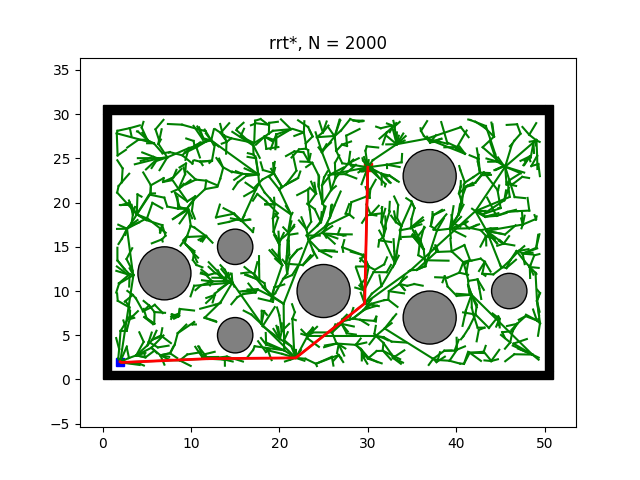
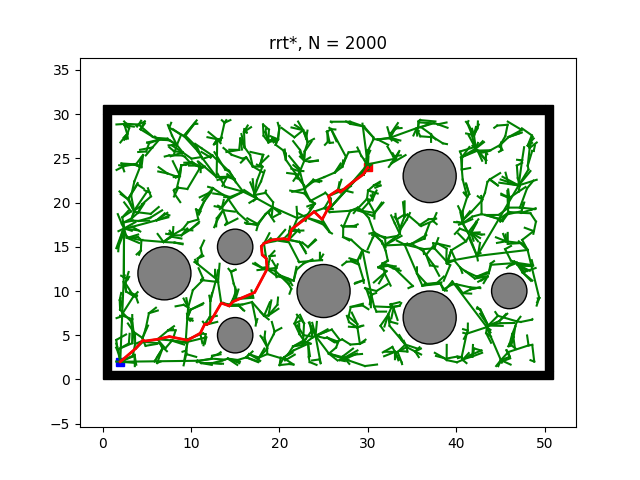
issues of QP-solver for nonlinear velocity model fixed

Changed region(s): [[0.1562, 0.25, 0.8438, 0.7812]]

diff --git a/nonlinear_dynamic_model/LQR_CBF_rrtStart_nonlinear.py b/nonlinear_dynamic_model/LQR_CBF_rrtStart_nonlinear.py
@@ -28,7 +28,7 @@ class Node:
 
 class LQRrrtStar:
     def __init__(self, x_start, x_goal, step_len,
-                 goal_sample_rate, search_radius, iter_max,AdSamplingFlag = False):
+                 goal_sample_rate, search_radius, iter_max,AdSamplingFlag = False, solve_QP = False):
         self.s_start = Node(x_start)
         self.s_goal = Node(x_goal)
         self.step_len = step_len
@@ -51,6 +51,7 @@ class LQRrrtStar:
 
         self.lqr_planner = LQRPlanner()
         self.LQR_Gain = dict()
+        self.solve_QP = solve_QP
 
         # The adaptive sampling attributes: 
         self.Vg_leaves = []
@@ -148,7 +149,7 @@ class LQRrrtStar:
         node_goal.y = node_start.y + dist * math.sin(theta)
 
 
-        wx, wy, _, _, = self.lqr_planner.lqr_planning(node_start.x, node_start.y, node_goal.x, node_goal.y, self.LQR_Gain, show_animation=show_animation)
+        wx, wy, _, _, = self.lqr_planner.lqr_planning(node_start.x, node_start.y, node_goal.x, node_goal.y, self.LQR_Gain, show_animation=show_animation, solve_QP=self.solve_QP)
         px, py, traj_cost = self.sample_path(wx, wy)
 
 
@@ -163,7 +164,7 @@ class LQRrrtStar:
         return node_new
 
     def cal_LQR_new_cost(self, node_start, node_goal,cbf_check = True):
-        wx, wy, _, can_reach = self.lqr_planner.lqr_planning(node_start.x, node_start.y, node_goal.x, node_goal.y, self.LQR_Gain, show_animation=False, cbf_check = cbf_check)
+        wx, wy, _, can_reach = self.lqr_planner.lqr_planning(node_start.x, node_start.y, node_goal.x, node_goal.y, self.LQR_Gain, show_animation=False, cbf_check = cbf_check, solve_QP=self.solve_QP)
         px, py, traj_cost = self.sample_path(wx, wy)
         if wx is None:
             return float('inf'), False
@@ -176,7 +177,7 @@ class LQRrrtStar:
         for i in neighbor_index:
 
             # check if neighbor_node can reach node_new
-            _, _, _, can_reach = self.lqr_planner.lqr_planning(self.vertex[i].x, self.vertex[i].y, node_new.x, node_new.y, self.LQR_Gain, show_animation=False)
+            _, _, _, can_reach = self.lqr_planner.lqr_planning(self.vertex[i].x, self.vertex[i].y, node_new.x, node_new.y, self.LQR_Gain, show_animation=False, solve_QP=self.solve_QP)
 
 
             if can_reach and not self.utils.is_collision(self.vertex[i], node_new):  #collision check should be updated if using CBF

diff --git a/CBFsteer.py b/CBFsteer.py
@@ -126,12 +126,11 @@ class CBF_RRT:
         return u_ref
         
 
-    def QP_controller(self,x_current,u_ref, model="linear"):
+    def QP_controller(self, x_current, u_ref, model="linear"):
         if model == "linear":
             self.m = Model("CBF_CLF_QP_Linear")
             x1 = x_current[0, 0]
             x2 = x_current[1, 0]
-
 
             self.m.remove(self.m.getConstrs())
             u1_ref = u_ref[0]
@@ -175,8 +174,9 @@ class CBF_RRT:
             y = x_current[1]
             theta = x_current[2]
 
-            v = u_ref[0]  #self.unicycle_constant_v # Set constant linear velcoity to avoid mixed relative degree control
-            yaw = u_ref[1]
+
+            v = u_ref[0, 0]  #self.unicycle_constant_v # Set constant linear velcoity to avoid mixed relative degree control
+            yaw = u_ref[1, 0]
 
             self.m.remove(self.m.getConstrs())
             #Control angular velocity
@@ -192,19 +192,19 @@ class CBF_RRT:
                 yo = self.x_obstacle[i][1]
                 r = self.x_obstacle[i][2]
 
-                h = float((x-xo)**2+(y-yo)**2-r**2)
+                h = (x-xo)**2+(y-yo)**2-r**2
 
                 Lfh = v*math.cos(theta)*(2*x-2*xo)+v*math.sin(theta)*(2*y-2*yo)
-                Lfh = float(Lfh[0, 0])
 
                 LfLfh = 2*(v**2)*math.cos(theta)**2+2*(v**2)*math.sin(theta)**2
-                LfLfh = float(LfLfh[0, 0])
 
                 LgLfh = v*math.cos(theta)*(2*y-2*yo) - v*math.sin(theta)*(2*x-2*xo)
-                LgLfh = float(LgLfh[0, 0])
 
                 self.m.addConstr( LfLfh+LgLfh*self.w+self.k1_unicyle_cbf*h+self.k2_unicyle_cbf*Lfh >= 0,"CBF_constraint")
 
+            #Stop optimizer from publsihing results to console - remove if desired
+            self.m.Params.LogToConsole = 0
+            
             #Solve the optimization problem
             self.m.optimize()
             self.solution = self.m.getVars()

diff --git a/nonlinear_dynamic_model/LQR_nonlinear_planning.py b/nonlinear_dynamic_model/LQR_nonlinear_planning.py
@@ -81,8 +81,13 @@ class LQRPlanner:
             if cbf_check and not test_LQR and not solve_QP:
                 if not self.cbf_rrt_simulation.QP_constraint([x[0, 0] + gx, x[1, 0] + gy, x[2, 0] + gtheta], u, system_type = "unicycle_velocity_control"):
                     break
+
             if solve_QP:
-                u = self.cbf_rrt_simulation.QP_controller([x[0, 0] + gx, x[1, 0] + gy, x[2, 0] + gtheta], u, model = "unicycle")
+                try:
+                    u = self.cbf_rrt_simulation.QP_controller([x[0, 0] + gx, x[1, 0] + gy, x[2, 0] + gtheta], u, model = "unicycle")
+                except:
+                    print('infeasible')
+                    break
 
             xk = self.A @ xk + self.B @ u + self.C
 

diff --git a/LQR_planning.py b/LQR_planning.py
@@ -61,6 +61,7 @@ class LQRPlanner:
                 try:
                     u = self.cbf_rrt_simulation.QP_controller(x, u, model="linear")
                 except:
+                    print('infeasible')
                     break
 
             x = self.A @ x + self.B @ u
@@ -89,7 +90,6 @@ class LQRPlanner:
                 plt.pause(1.0)
 
         if not found_path:
-            #print("Cannot found path")
             return rx, ry, error,found_path
 
         return rx, ry, error,found_path

diff --git a/linear_dynamic_model/LQR_CBF_rrtStar_linear.py b/linear_dynamic_model/LQR_CBF_rrtStar_linear.py
@@ -33,7 +33,7 @@ class Node:
 
 class LQRrrtStar:
     def __init__(self, x_start, x_goal, step_len,
-                 goal_sample_rate, search_radius, iter_max, AdSamplingFlag = False, solve_QP =False):
+                 goal_sample_rate, search_radius, iter_max, AdSamplingFlag = False, solve_QP =True):
         self.s_start = Node(x_start)
         self.s_goal = Node(x_goal)
         self.step_len = step_len
